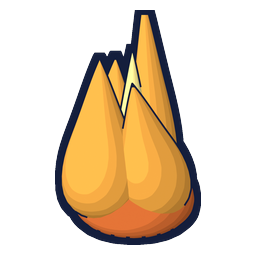
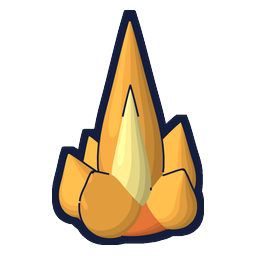
Empire FX: furnace openings breathe (no flames), EAF crucible arc glow shifts, refinery columns emit nothing, lobed flare flame v2
Owner rulings 2026-09-10: the furnace gets a grow-and-recede glow on every lit
window, doorway and hot band instead of door flames; the EAF crucible gets a
wandering arc glow (plus the ladle breathing) with re-measured anchors (L2/L3 had
sat off the crucible); the refinery's process columns are not furnaces, so their
steam stacks are gone and only the fired heaters carry a flame. Flame sprites
re-rendered with a skirt of 5-7 splayed lobes and one tall central tongue with a
camera-side yellow core.

diff --git a/.claude/skills/blender-goods-icons/goods_icon_batch4_flames.py b/.claude/skills/blender-goods-icons/goods_icon_batch4_flames.py
@@ -29,24 +29,35 @@ def _tongue(K, name, base, h, w, lean, mat, seed):
 
 
 def _flame(seed: int):
+    """Owner 2026-09-10 (v2): 'more lobes at the base and taller in the middle'. A wide
+    skirt of five to seven short splayed lobes around a squat root, then ONE tall central
+    tongue (orange body with a yellow core tongue in front) reaching about two and a half
+    times the skirt's height."""
     setup_batch_rig()
     col = open_collection("ICON_flame_%d" % seed)
     K = Kit(col)
     body = P("flame_body", FLAME_BODY); core = P("flame_core", FLAME_CORE); root = P("flame_root", FLAME_ROOT)
     rng = random.Random(500 + seed)
-    # root: a squat dark-orange bulb the tongues rise from
-    lathe(K, "root", (0, 0, 0), [(0.0, 0.42), (0.10, 0.50), (0.28, 0.42), (0.40, 0.22), (0.46, 0.0)], root, segments=24, levels=2)
-    n = rng.randint(3, 5)
+    # root: a wide squat dark-orange bulb the skirt rises from
+    lathe(K, "root", (0, 0, 0), [(0.0, 0.55), (0.10, 0.62), (0.26, 0.52), (0.38, 0.28), (0.44, 0.0)], root, segments=28, levels=2)
+    # the skirt: short fat lobes splayed OUTWARD from the axis
+    n = rng.randint(5, 7)
     for i in range(n):
-        ang = 2 * math.pi * i / n + rng.uniform(-0.4, 0.4)
-        rr = rng.uniform(0.10, 0.30)
-        base = (rr * math.cos(ang), rr * math.sin(ang), 0.08)
-        h = rng.uniform(1.0, 1.9)
-        w = rng.uniform(0.20, 0.34)
-        lean = (rng.uniform(-22, 22), rng.uniform(-14, 14))
-        _tongue(K, "tongue%d" % i, base, h, w, lean, body, seed * 10 + i)
-    # the core: one tall yellow tongue in the middle, slightly inside the bodies
-    _tongue(K, "core", (0.0, 0.0, 0.12), rng.uniform(1.2, 1.6), 0.17, (rng.uniform(-8, 8), rng.uniform(-6, 6)), core, seed * 10 + 9)
+        ang = 2 * math.pi * i / n + rng.uniform(-0.3, 0.3)
+        rr = rng.uniform(0.28, 0.42)
+        base = (rr * math.cos(ang), rr * math.sin(ang), 0.06)
+        h = rng.uniform(0.5, 1.1)
+        w = rng.uniform(0.24, 0.34)
+        splay = rng.uniform(14, 30)
+        lean = (splay * math.cos(ang), -splay * math.sin(ang))
+        _tongue(K, "lobe%d" % i, base, h, w, lean, body, seed * 10 + i)
+    # the middle: one tall orange tongue, a yellow core tongue just in front of it (-y = camera side)
+    mid_lean = (rng.uniform(-6, 6), rng.uniform(-4, 4))
+    hm = rng.uniform(2.0, 2.5)
+    _tongue(K, "mid", (0.0, 0.0, 0.10), hm, 0.34, mid_lean, body, seed * 10 + 8)
+    # the camera sits at (+1,-1,+1): the core is pushed that way so it shows on the body
+    _tongue(K, "core", (0.17, -0.17, 0.16), hm * rng.uniform(0.62, 0.72), 0.21,
+            (mid_lean[0] * 0.8, mid_lean[1] * 0.8), core, seed * 10 + 9)
     return {"objects": len(col.objects)}
 
 
